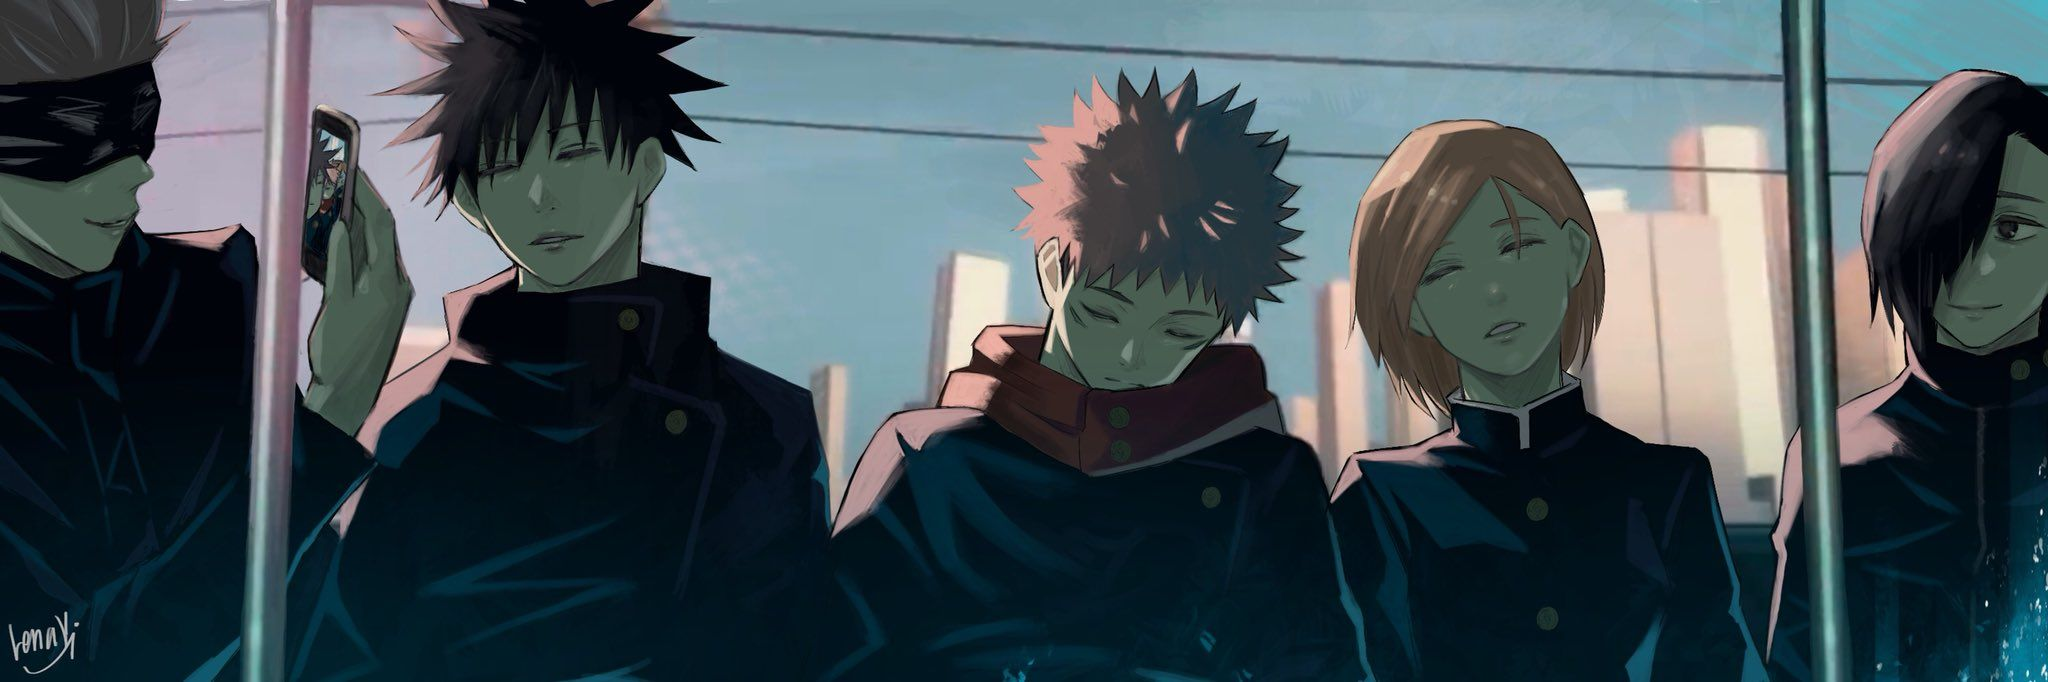
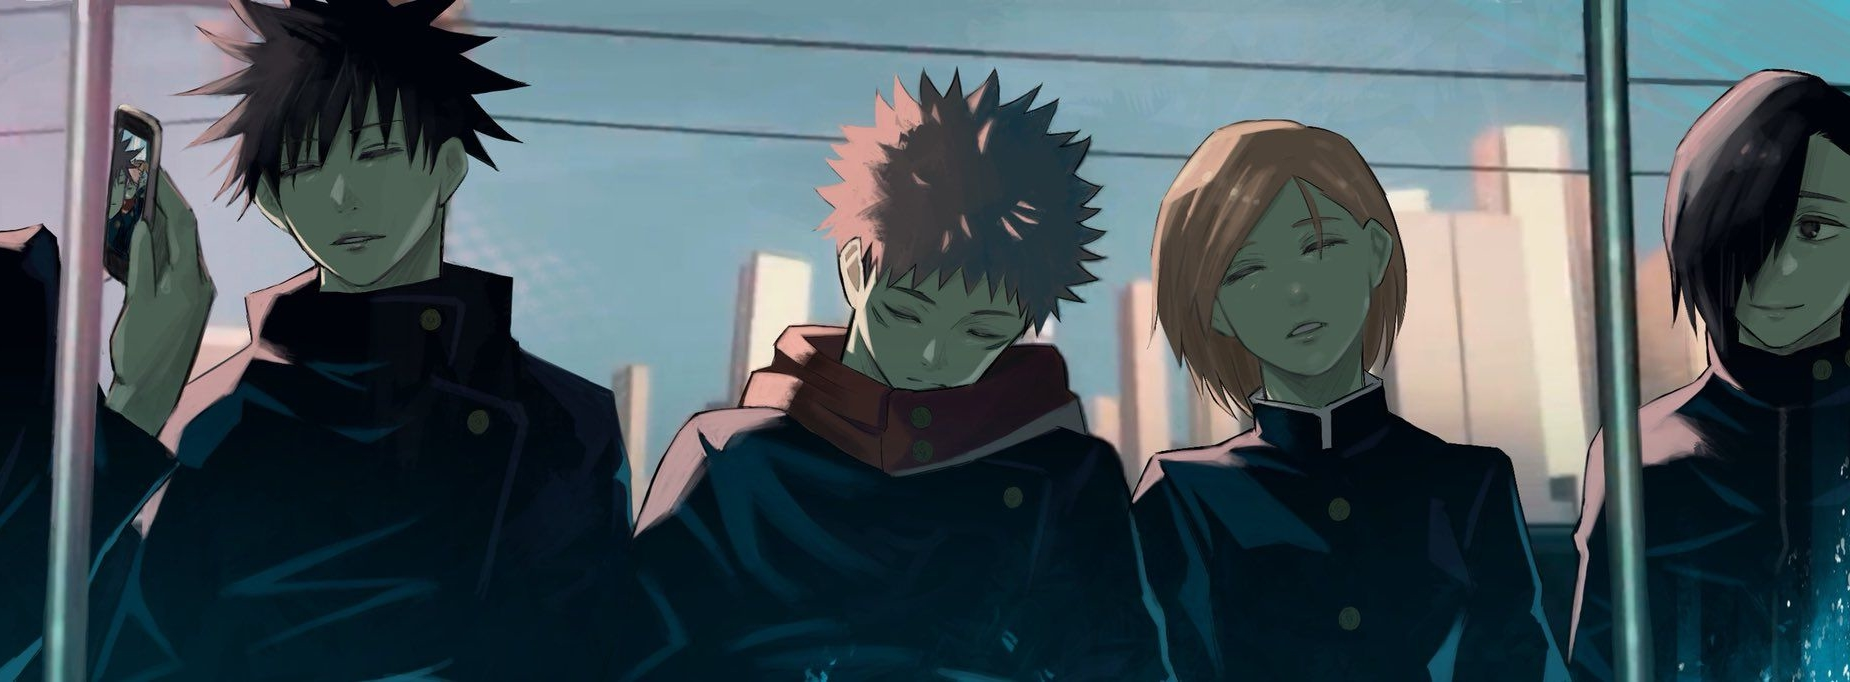
Fits background to block; fixes pfp center align; starts working on showcases components

diff --git a/frontend/src/components/Home.jsx b/frontend/src/components/Home.jsx
@@ -20,7 +20,7 @@ const Home = () => {
   const WelcomeBlock = () => {
     if (!loggedIn) {
       return (
-        <div className="container bg-login_banner bg-center rounded-tr-2xl rounded-br-3xl shadow-lg hover:shadow-banner w-3/4 h-48 mt-12">
+        <div className="container bg-100% bg-login_banner bg-center rounded-tr-2xl rounded-br-3xl shadow-lg hover:shadow-banner w-3/4 h-48 mt-12">
           <Link to="/login">
             <button type="button" className="appearance-none m-5 mt-7 px-10 py-10 text-6xl hover:drop-shadow-glow font-mono text-white">
               Please Login!
@@ -30,8 +30,8 @@ const Home = () => {
       )
     }
     return (
-      <div className="container bg-gallery_banner bg-center rounded-tr-2xl rounded-br-3xl shadow-lg hover:shadow-banner w-3/4 h-48 mt-12">
-        <div className="px-10 py-10 m-5 mt-7 text-6xl font-mono hover:drop-shadow-glow text-white text-left">
+      <div className="container overflow-auto bg-100% bg-gallery_banner bg-center rounded-tr-2xl rounded-br-3xl shadow-lg hover:shadow-banner w-3/4 h-48 mt-12">
+        <div className="m-5 mt-7 px-10 py-10 text-6xl font-mono hover:drop-shadow-glow text-white text-left">
           Your Pallery!
         </div>
       </div>
@@ -59,12 +59,12 @@ const Home = () => {
   return (
     <>
       <WelcomeBlock />
-      <div className="absolute top-12 right-12 flex flex-col justify-items-end">
+      <span className="absolute top-12 right-12 flex flex-col items-center">
         <Pfp loggedIn={loggedIn} />
         {loggedIn && 
           <Logout user={loggedInUser} />
         }
-      </div>
+      </span>
     </>
   )
 }

diff --git a/tailwind.config.js b/tailwind.config.js
@@ -13,6 +13,10 @@ module.exports = {
       backgroundImage: {
         'login_banner': "url('../imgs/login_banner.jpg')",
         'gallery_banner': "url('../imgs/gallery_banner.jpg')",
+        
+      },
+      backgroundSize: {
+        '100%': '100%',
       }
     },
   },
